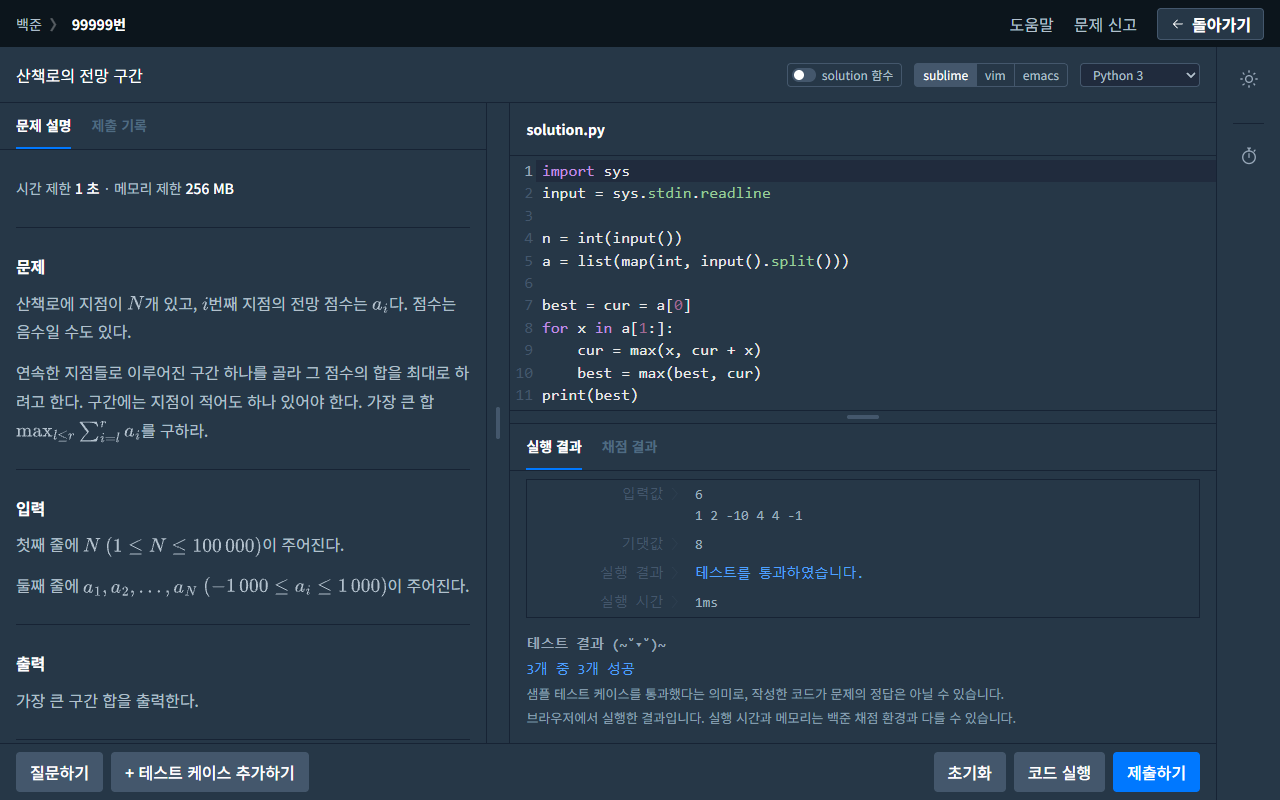
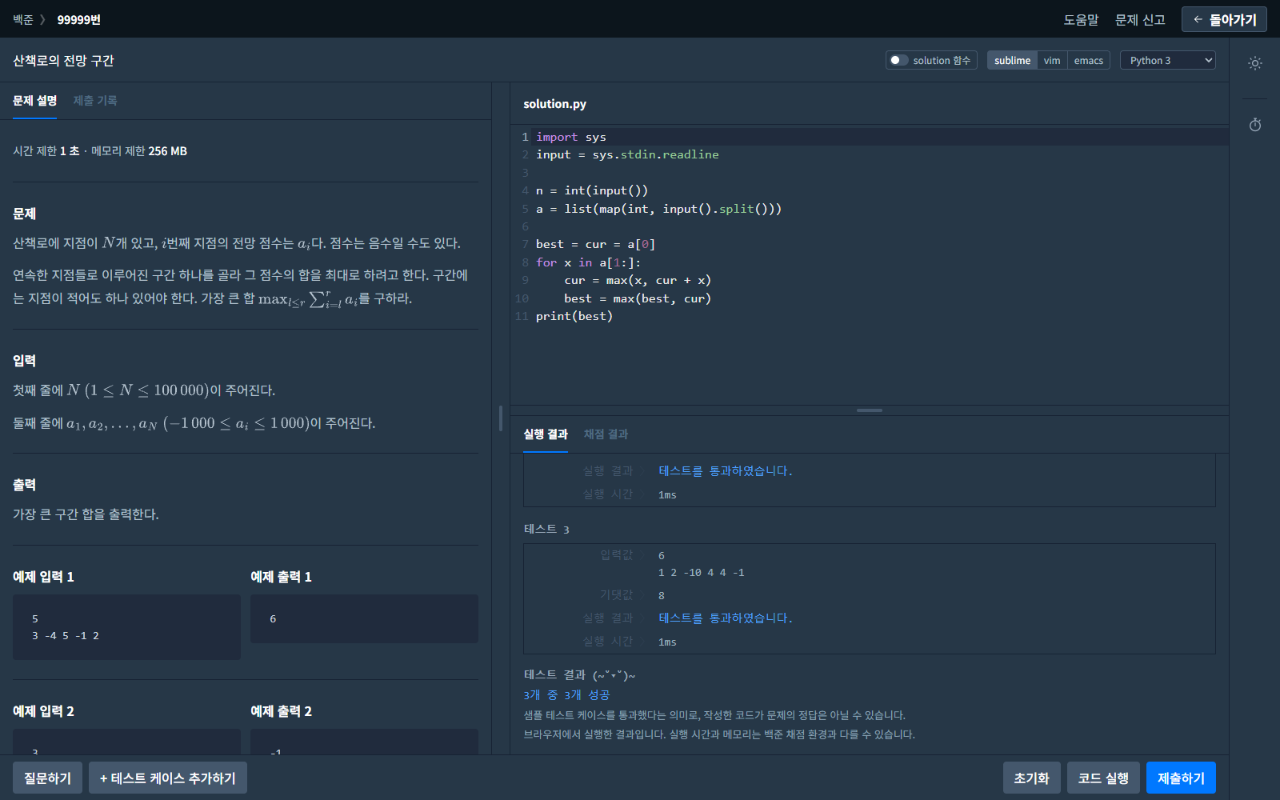
docs(store): 스크린샷을 1600 너비 화면에서 찍어 1280×800으로 줄이기 (#227)

diff --git a/scripts/store/screenshots.ts b/scripts/store/screenshots.ts
@@ -1,5 +1,5 @@
 /**
- * Chrome Web Store screenshots (#66, #202), 1280×800, and the 440×280 promo tile, from the
+ * Chrome Web Store screenshots (#66, #202), 1280×800 from a 1600×1000 viewport, and the 440×280 promo tile, from the
  * built extension and synthetic pages only: the example problem (scripts/store/problem.html),
  * a made-up mock exam and made-up submission lists. Nothing is sent to Baekjoon.
  *
@@ -18,11 +18,14 @@ declare const chrome: { storage: { local: { set(items: object): Promise<void> } 
 const ROOT = path.resolve(import.meta.dirname, '..', '..');
 const EXTENSION = path.join(ROOT, '.output', 'chrome-mv3');
 const STORE = path.join(ROOT, 'docs', 'store');
-const OUT = path.join(STORE, 'screenshots');
+const OUT = process.env.STORE_OUT ?? path.join(STORE, 'screenshots');
 const BOJ = 'https://acmicpc.net';
 const PROBLEM_ID = 99999;
 const USER = 'user01';
-const SIZE = { width: 1280, height: 800 };
+// The store takes 1280×800 images. A 1600-wide CSS viewport is scaled down into them, so panes
+// get more room at a slightly smaller text size.
+const CSS_WIDTH = Number(process.env.STORE_CSS_WIDTH ?? 1600);
+const SIZE = { width: CSS_WIDTH, height: (CSS_WIDTH * 800) / 1280 };
 const MIN = 60_000;
 
 const PYTHON = `import sys
@@ -213,6 +216,7 @@ mkdirSync(OUT, { recursive: true });
 const context = await chromium.launchPersistentContext('', {
   channel: process.env.PW_CHANNEL ?? 'chromium',
   viewport: SIZE,
+  deviceScaleFactor: 1280 / CSS_WIDTH,
   args: [
     `--disable-extensions-except=${EXTENSION}`,
     `--load-extension=${EXTENSION}`,
@@ -376,7 +380,7 @@ try {
   // Promo tile.
   await page.setViewportSize({ width: 440, height: 280 });
   await page.goto(pathToFileURL(path.join(import.meta.dirname, 'promo.html')).href);
-  await page.screenshot({ path: path.join(STORE, 'promo-440x280.png') });
+  await page.screenshot({ path: path.join(STORE, 'promo-440x280.png'), scale: 'css' });
   console.log('promo-440x280.png');
 } finally {
   await context.close();
